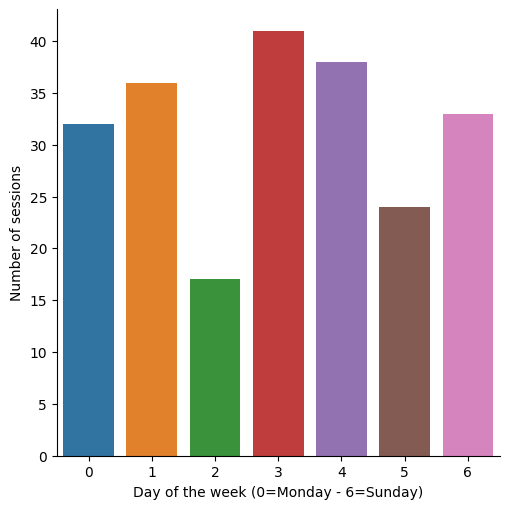
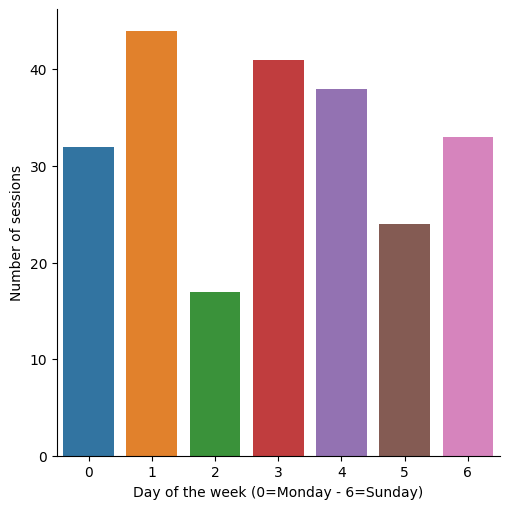
"Stats generated 2021-10-27"

diff --git a/all/2021/10/days/26/index.html b/all/2021/10/days/26/index.html
@@ -1,0 +1,29 @@
+<!DOCTYPE html>
+<html>
+  <head>
+    <meta charset="utf-8"/>
+    <title>26 October 2021</title>
+    <link rel="stylesheet" href="../../../../../styles.css"/>
+  </head>
+  <body>
+    <div id="container">
+      <nav>
+        <ul>
+          
+            <li><a href="../../">October 2021</a></li>
+            <li class="separator"></li>
+          
+          
+        </ul>
+      </nav>
+      <main>
+        <h1>26 October 2021</h1>
+        
+          <h2>Number of sessions per hour</h2>
+          <img src="sessions.png" alt="Number of sessions per hour"/>
+        
+        
+      </main>
+    </div>
+  </body>
+</html>

diff --git a/all/2021/index.html b/all/2021/index.html
@@ -143,9 +143,9 @@
                   
                     <td>10.0</td>
                   
-                    <td>221.0</td>
+                    <td>229.0</td>
                   
-                    <td>26.096741866666665</td>
+                    <td>26.163574883333336</td>
                   
                 </tr>
               

diff --git a/all/2021/10/index.html b/all/2021/10/index.html
@@ -134,6 +134,10 @@
               <li><a href="days/25/">25</a></li>
             
           
+            
+              <li><a href="days/26/">26</a></li>
+            
+          
         </ul>
       </nav>
       <main>
